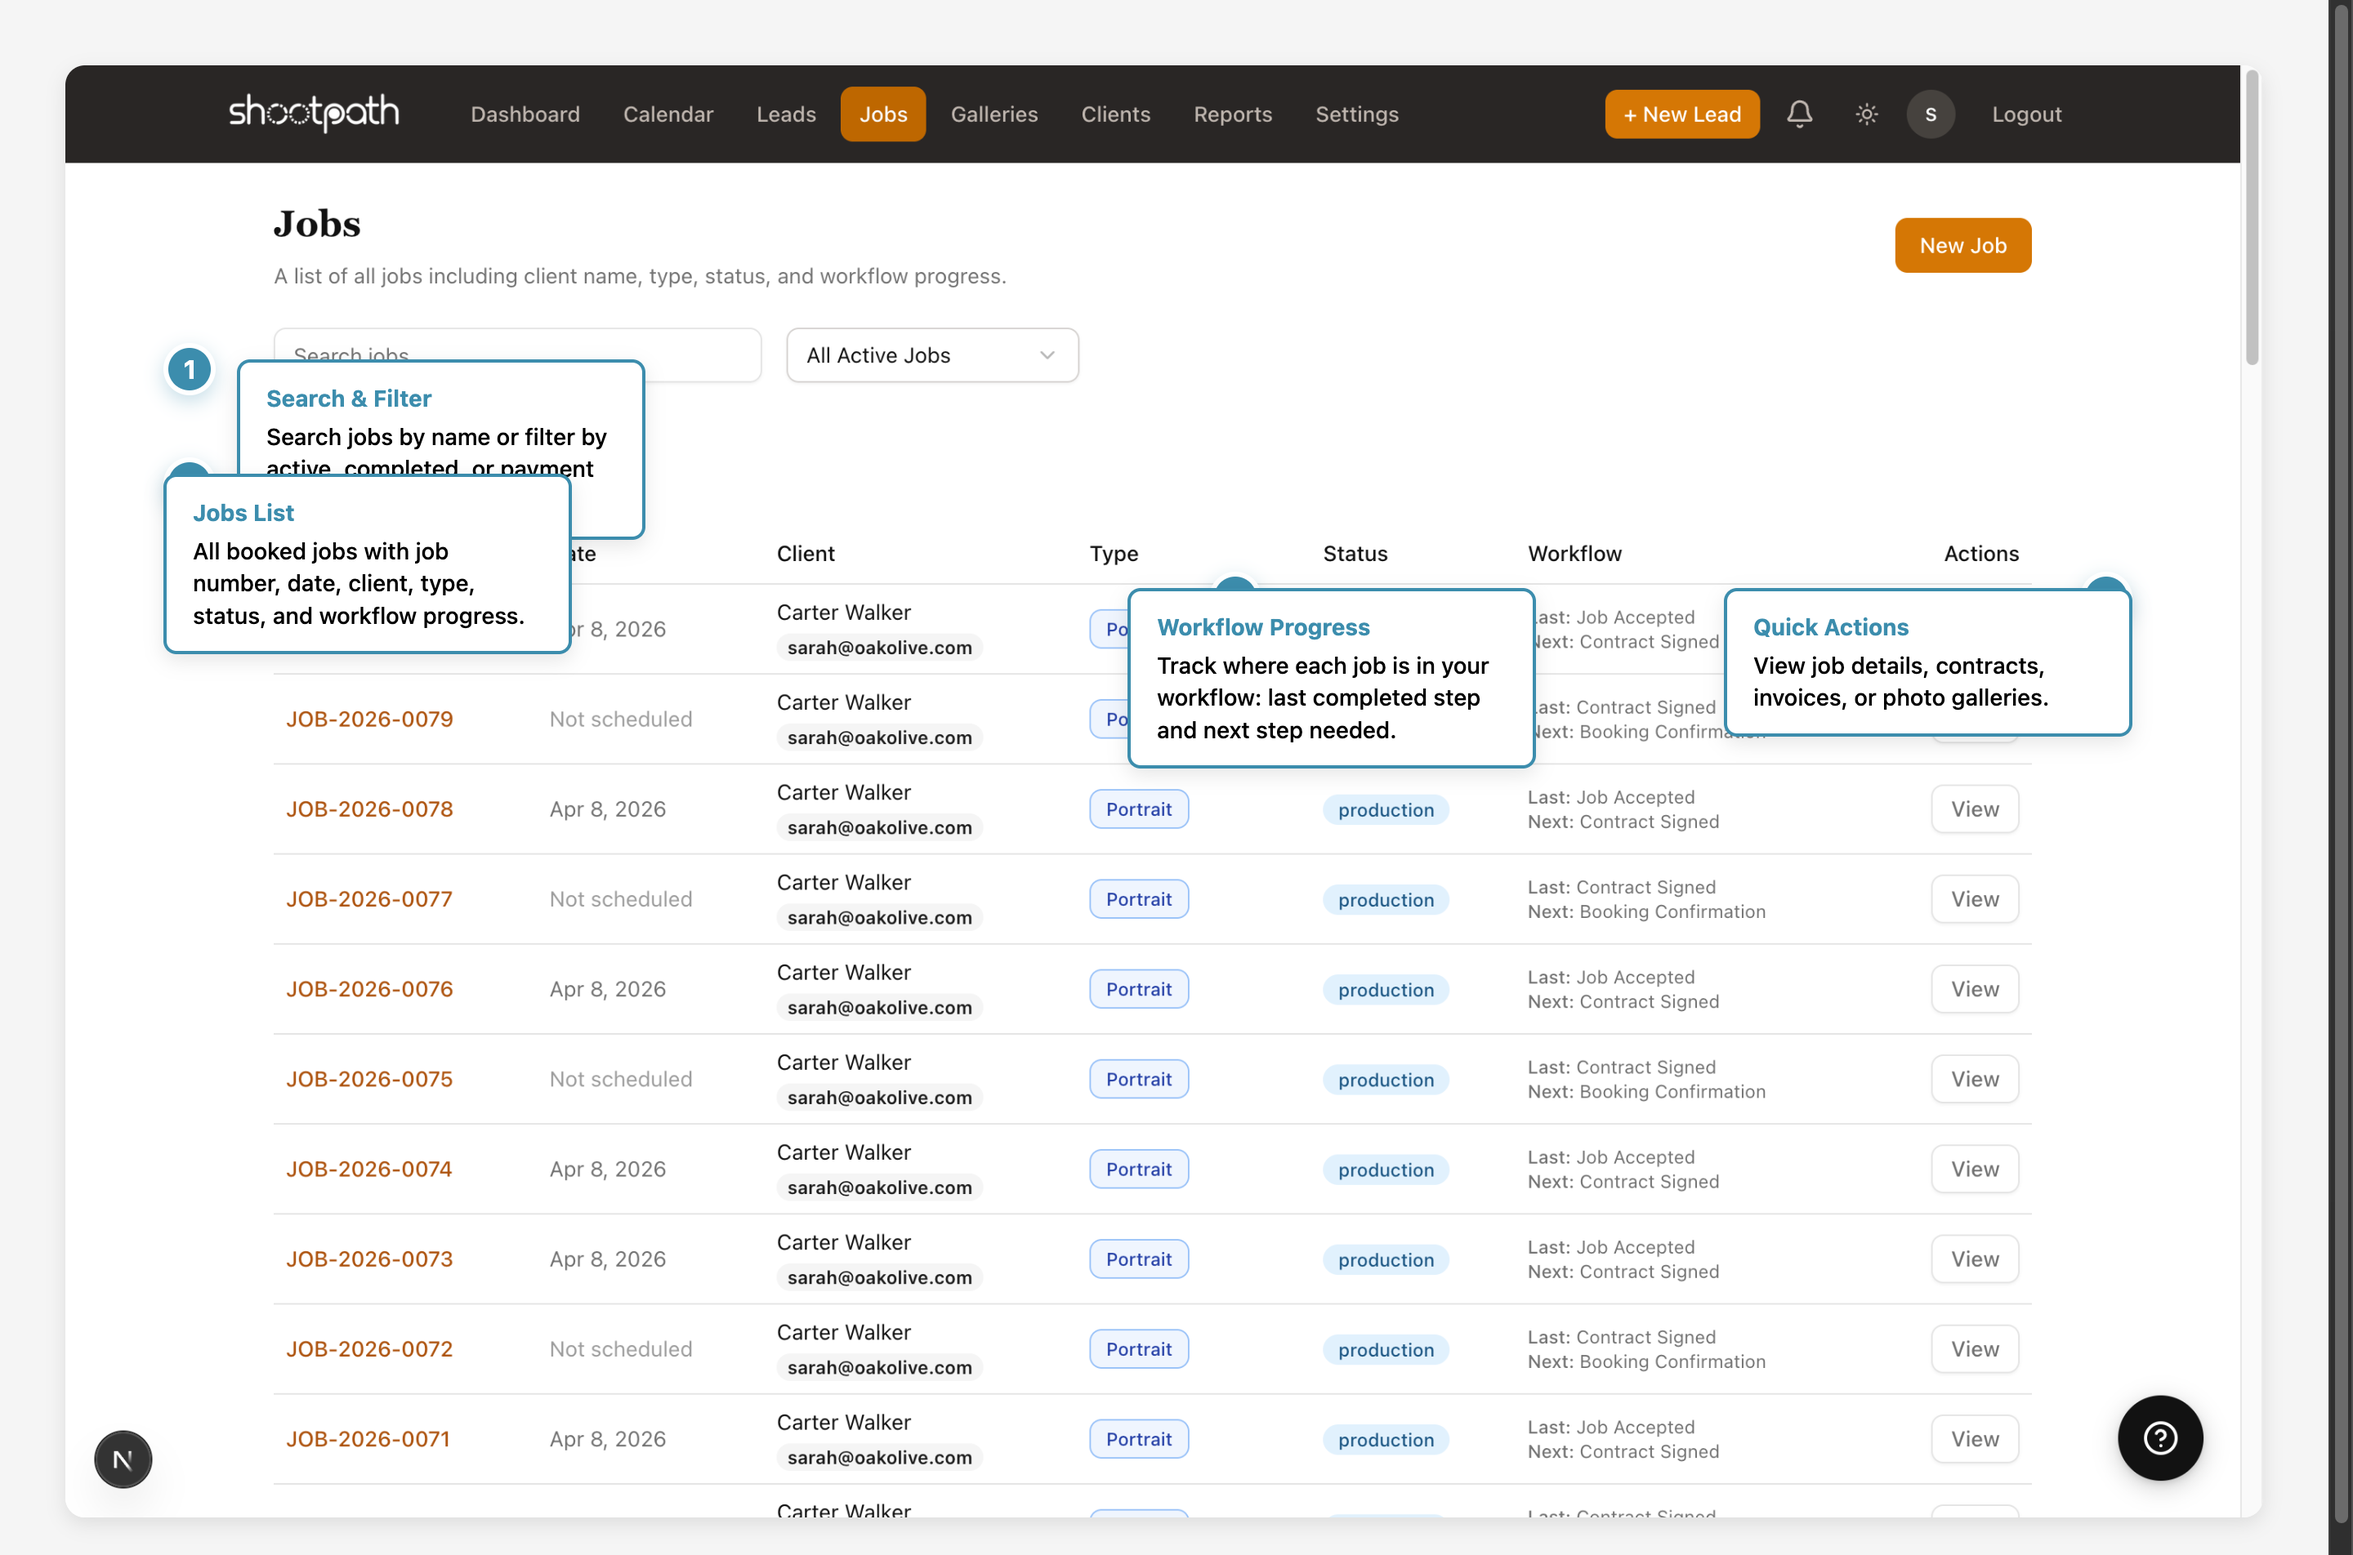
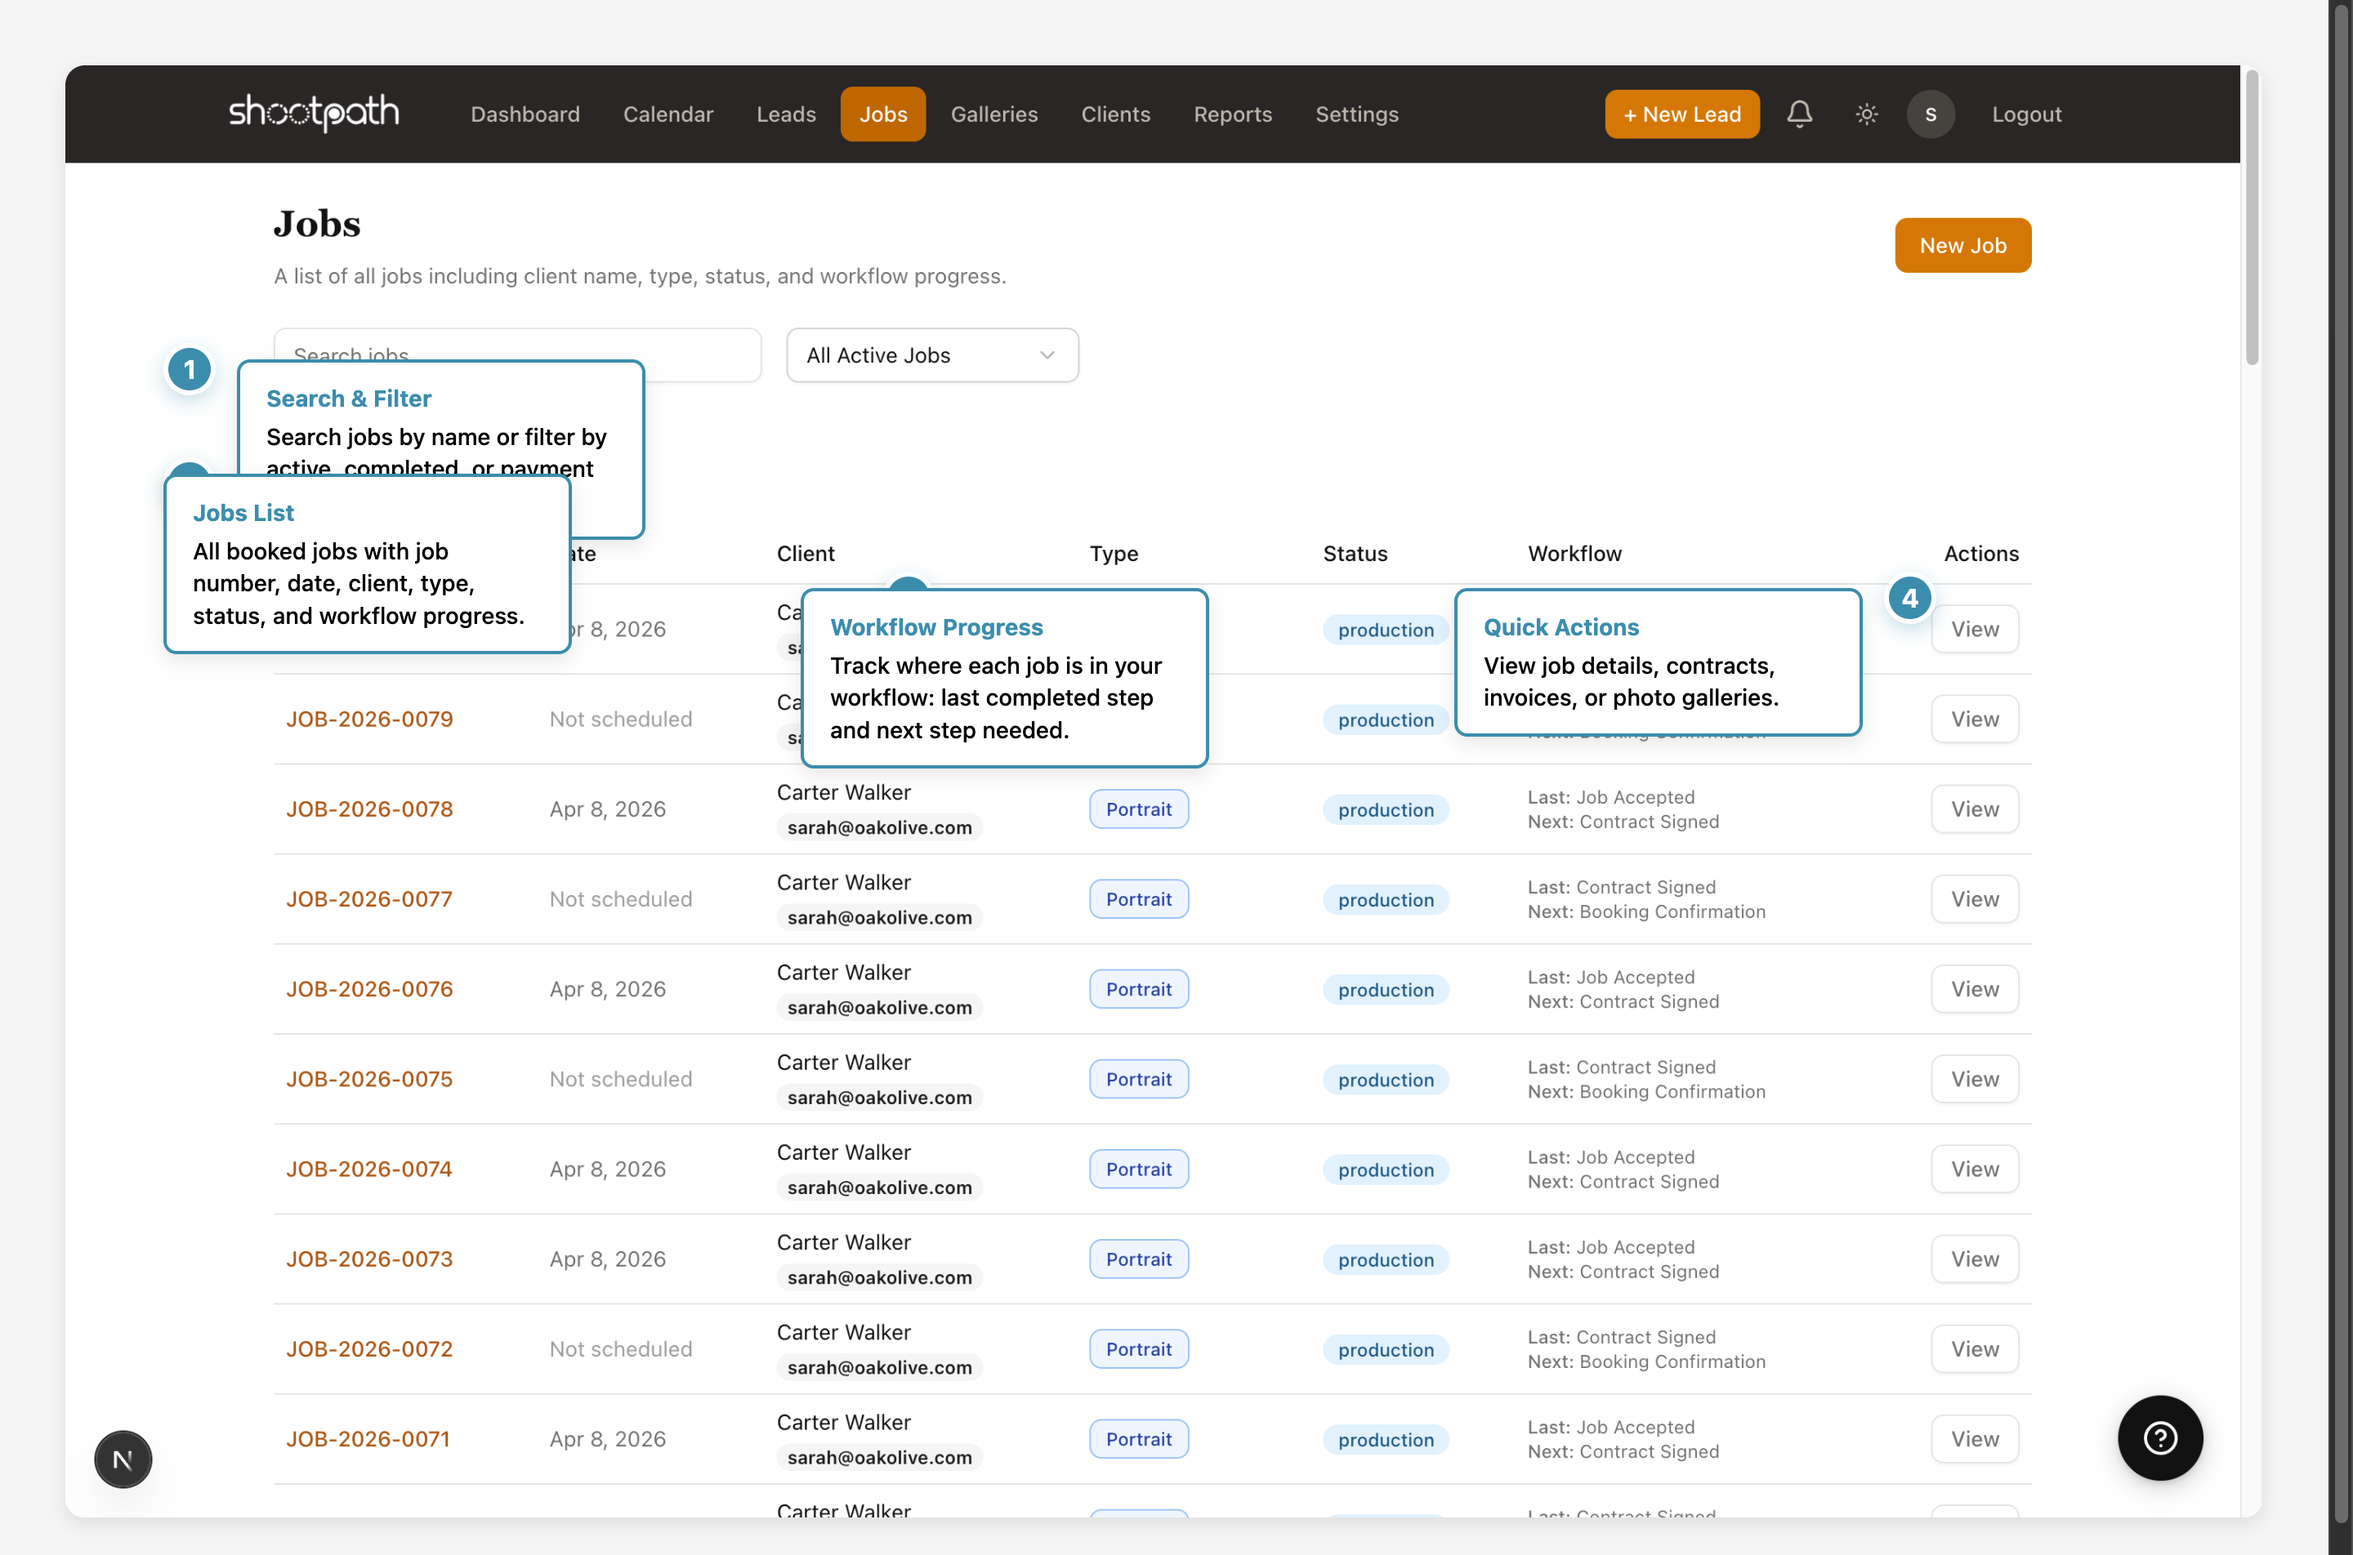
Co-locate annotated screenshots in relevant docs sections
- Fix annotation positioning (jobs and leads were cut off)
- Move dashboard screenshot to Understanding Your Dashboard
- Move leads screenshot to Understanding Leads
- Move jobs screenshot to Understanding Jobs
- Move settings screenshot to Basic Settings
- Remove standalone interface-overview page
- Integrate screenshots directly where they're relevant

Changed region(s): [[0.3438, 0.3718, 0.875, 0.4958], [0.875, 0.3718, 0.9062, 0.4028]]

diff --git a/docs/getting-started/index.md b/docs/getting-started/index.md
@@ -4,15 +4,15 @@
 
 Your dashboard is your command center in ShootPath - it shows you everything happening in your photography business right now.
 
-**Key Metrics at a Glance:**
+**Key Areas:**
 
-![Dashboard overview](../../static/img/screenshots/getting-started/dashboard-full.png)
+![Dashboard Interface](/img/screenshots/interface/dashboard-annotated.png)
 
-- **New Leads** - Client inquiries from the past week
-- **Upcoming Shoots** - Sessions scheduled in the next 14 days
-- **Active Leads** - Potential clients waiting for your response
-- **In Production** - Jobs currently in progress (from contract signed to gallery delivered)
-- **Revenue** - Total income for the current month and year
+1. **Main Navigation** - Switch between Dashboard, Calendar, Leads, Jobs, Galleries, Clients, Reports, and Settings
+2. **Quick Actions** - Create new leads, check notifications, toggle theme, and access your account
+3. **Key Metrics** - Track new leads, upcoming shoots, active leads, and jobs in production
+4. **Revenue Overview** - See monthly and yearly revenue, average job value, and financial trends
+5. **Sessions Calendar** - View confirmed sessions and jobs needing follow-up
 
 **Quick Actions:**
 - Click **"+ New Lead"** in the top-right to add a client inquiry
@@ -21,7 +21,7 @@ Your dashboard is your command center in ShootPath - it shows you everything hap
 
 **Recent Activity** shows what's happening across your business - quotes accepted, contracts signed, leads created - so you're always in the loop.
 
-**Next Steps:** [Explore the interface](./interface-overview), [create your first lead](./creating-a-lead), or [explore jobs](./understanding-jobs).
+**Next Steps:** [Create your first lead](./creating-a-lead) or [explore jobs](./understanding-jobs).
 
 ---
 

diff --git a/docs/getting-started/basic-settings.md b/docs/getting-started/basic-settings.md
@@ -4,14 +4,21 @@
 
 Before you start using ShootPath, you'll want to configure a few essential settings so your business info appears correctly in emails, invoices, and contracts.
 
+**Settings Interface:**
+
+![Settings Page](/img/screenshots/interface/settings-annotated.png)
+
+1. **Settings Categories** - Navigate between different settings sections
+2. **Business Settings** - Configure name, logo, contact info, and branding
+3. **Settings Cards** - Each card represents a configurable aspect
+4. **Save Changes** - Changes save automatically when updated
+
 **Critical Settings to Configure First:**
 
 1. **Business Information** - Your business name, email, and phone
 2. **Photographer Name** - How you sign your emails
 3. **Email Signature** - Appears at the bottom of all outgoing emails
 4. **Business Logo** (optional but recommended)
-
-![Settings overview](../../static/img/screenshots/getting-started/settings-overview.png)
 
 **Where to Find Settings:**
 Click **"Settings"** in the left sidebar navigation.

diff --git a/docs/getting-started/understanding-jobs.md b/docs/getting-started/understanding-jobs.md
@@ -4,14 +4,20 @@
 
 A job in ShootPath represents an active photography project - from the moment a client books you until you deliver their final gallery.
 
+**Jobs Interface:**
+
+![Jobs Page](/img/screenshots/interface/jobs-annotated.png)
+
+1. **Search & Filter** - Search jobs or filter by status
+2. **Jobs List** - All jobs with client, type, status, and workflow progress
+3. **Workflow Progress** - Track last completed step and next action needed
+4. **Quick Actions** - View details, contracts, invoices, or galleries
+
 **Key Concepts:**
 
 - Jobs are created when a client accepts your quote
 - Each job has a workflow that guides you through the process
 - Track contracts, payments, shoot dates, and gallery delivery all in one place
-- View all active jobs from the Jobs page in the sidebar
-
-![Jobs list](../../static/img/screenshots/getting-started/jobs-list.png)
 
 **What's in a Job:**
 - **Client info** - Who you're shooting for

diff --git a/docs/getting-started/understanding-leads.md b/docs/getting-started/understanding-leads.md
@@ -4,6 +4,15 @@
 
 A lead is a potential client who's shown interest in your photography services. Leads are the starting point of your client journey in ShootPath.
 
+**Leads Interface:**
+
+![Leads Page](/img/screenshots/interface/leads-annotated.png)
+
+1. **Quick Actions** - Create new leads or add calendar events
+2. **Filter Leads** - Filter by status and job type
+3. **Leads Overview** - View all inquiries with client info, status, and dates
+4. **Lead Actions** - Send quotes, follow up, or convert to jobs
+
 **What is a Lead?**
 - Someone who filled out your contact form
 - A referral from a past client
